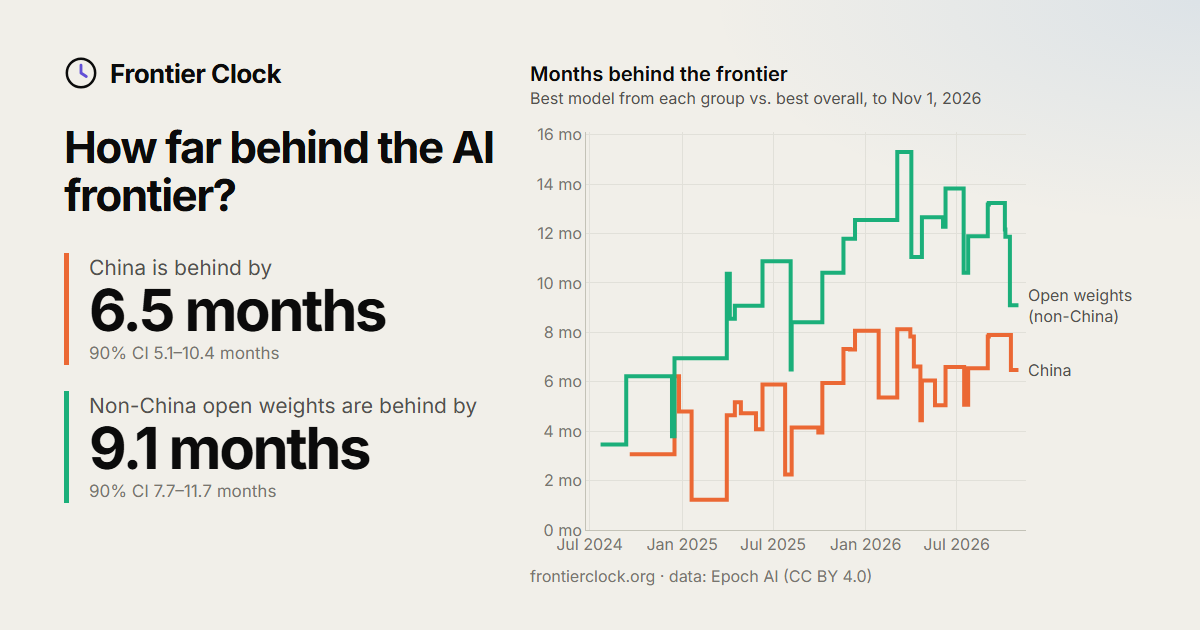
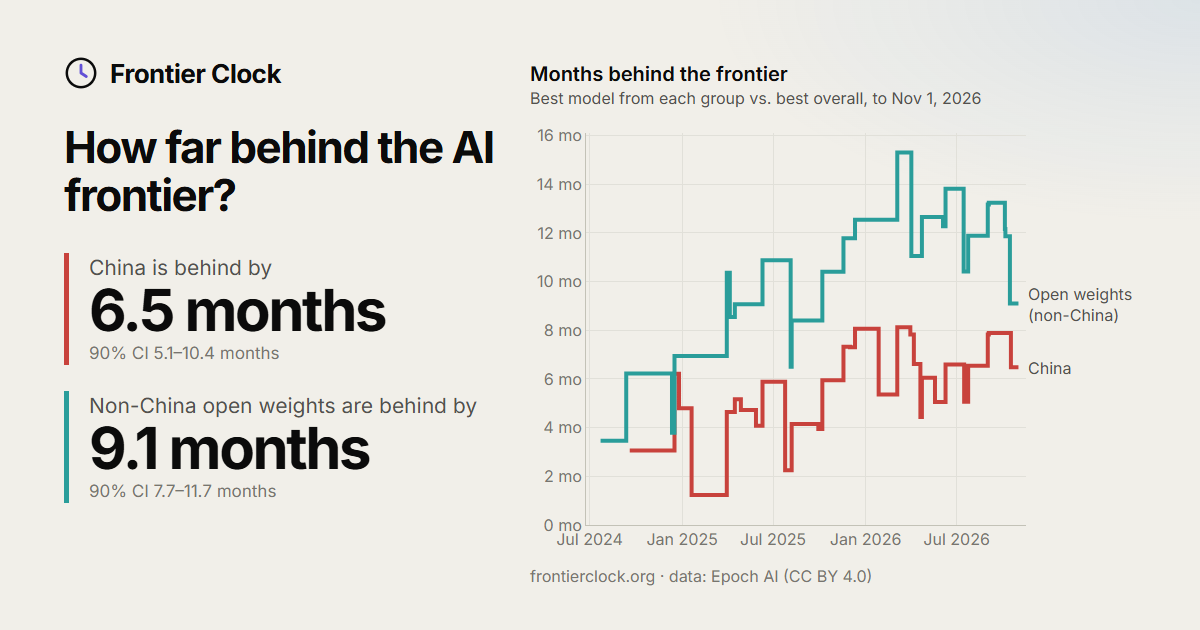
Color labs by group; red for China, teal for open weights
In the "By lab" view each lab is now a shade of its main group's color,
with line patterns and end-of-line labels to tell labs within a group
apart, so the colors mean the same thing on every tab. China changes
from orange to red and non-China open weights from green to teal. The
link-preview card is regenerated with the new colors.

diff --git a/site/app.js b/site/app.js
@@ -11,18 +11,22 @@ const GROUPS = [
 const LAG_GROUPS = GROUPS.slice(0, 3).map((g) => g.key);
 
 // Labs offered in the "By lab" view. Each keeps a fixed color, so toggling others never
-// repaints it. Eight is the categorical palette's limit; these have the most frontier-level
-// models (Z.ai and Mistral, next in line, are left out).
+// repaints it. A lab's color is a shade of the group most of its models belong to, so blue
+// still reads as US closed; within a group, labs also differ by line pattern. (Labs do cross
+// groups, e.g. OpenAI's gpt-oss; the marker shape shows each model's own group.)
+// These have the most frontier-level models (Z.ai and Mistral, next in line, are left out).
 const LABS = [
-  { key: "OpenAI", color: "--lab-1" },
-  { key: "Anthropic", color: "--lab-2" },
-  { key: "Google DeepMind", color: "--lab-3" },
-  { key: "xAI", color: "--lab-4" },
-  { key: "Meta AI", color: "--lab-5" },
-  { key: "DeepSeek", color: "--lab-6" },
-  { key: "Alibaba", color: "--lab-7" },
-  { key: "Moonshot", color: "--lab-8" },
+  { key: "OpenAI", color: "--lab-1", dash: "solid" },
+  { key: "Anthropic", color: "--lab-2", dash: "dash" },
+  { key: "Google DeepMind", color: "--lab-3", dash: "solid" },
+  { key: "xAI", color: "--lab-4", dash: "dot" },
+  { key: "Meta AI", color: "--lab-5", dash: "solid" },
+  { key: "DeepSeek", color: "--lab-6", dash: "solid" },
+  { key: "Alibaba", color: "--lab-7", dash: "dash" },
+  { key: "Moonshot", color: "--lab-8", dash: "solid" },
 ];
+// SVG equivalents of Plotly's dash names, for the legend chips.
+const DASH_SVG = { solid: "", dash: "5 3", dot: "1.5 3" };
 
 // Frontier curves offered on the site (core.js also has "linear" and "broken", kept for the CLI).
 const MODE_SHORT = { step: "Running max", interp: "Interpolated" };
@@ -500,7 +504,7 @@ function renderLegends() {
       const b = document.createElement("button");
       b.type = "button";
       b.setAttribute("aria-pressed", String(state.labsOn.has(l.key)));
-      b.innerHTML = `<svg width="16" height="8"><line x1="0" y1="4" x2="16" y2="4" stroke="${css(l.color)}" stroke-width="2" stroke-linecap="round"/></svg>`;
+      b.innerHTML = `<svg width="22" height="8"><line x1="1" y1="4" x2="21" y2="4" stroke="${css(l.color)}" stroke-width="2.5" stroke-linecap="round" stroke-dasharray="${DASH_SVG[l.dash]}"/></svg>`;
       b.append(l.key);
       b.addEventListener("click", () => {
         state.labsOn.has(l.key) ? state.labsOn.delete(l.key) : state.labsOn.add(l.key);
@@ -667,7 +671,7 @@ function renderScatter() {
   const view = state.scatterView;
   const series = view === "labs"
     ? LABS.filter((l) => state.labsOn.has(l.key))
-      .map((l) => ({ color: css(l.color), rows: leaders(rows.filter((r) => labOf(r.model) === l.key)) }))
+      .map((l) => ({ color: css(l.color), dash: l.dash, label: l.key, rows: leaders(rows.filter((r) => labOf(r.model) === l.key)) }))
     : (view === "leaders" ? GROUPS.slice(0, 3) : GROUPS).map((g) => {
       const mine = rows.filter((r) => groupMeta(r.model.group) === g);
       return { color: css(g.color), rows: view === "leaders" ? leaders(mine) : mine };
@@ -681,7 +685,7 @@ function renderScatter() {
     if (withTrend) {
       traces.push({
         x: mine.map((r) => isoOf(r.t)), y: mine.map((r) => isoOf(r.fdate)),
-        mode: "lines", line: { color, width: 2 }, opacity: 0.6, hoverinfo: "skip",
+        mode: "lines", line: { color, width: 2, dash: s.dash ?? "solid" }, opacity: view === "labs" ? 0.9 : 0.6, hoverinfo: "skip",
       });
     }
     const symbols = mine.map((r) => groupMeta(r.model.group).symbol);
@@ -705,25 +709,24 @@ function renderScatter() {
     }
     traces.push(trace);
   }
-  // Direct labels for each group's most advanced model, set in a gutter to the right of
-  // the newest release so they never sit on top of points. Nudged apart vertically.
-  // The lab view has none (its legend names the lines) but keeps the gutter, so the axes
-  // don't shift when switching views. Narrow screens have no room for them: no labels, no gutter.
+  // Direct labels for each group's most advanced model (each lab's name in the lab view), set
+  // in a gutter to the right of the newest release so they never sit on top of points.
+  // Nudged apart vertically. Narrow screens have no room for them: no labels, no gutter.
   const narrow = $("chart-scatter").clientWidth < 720;
-  const labelled = view === "labs" || narrow ? [] : series.slice(0, 3).filter((s) => s.top).sort((a, b) => b.top.fdate - a.top.fdate);
+  const labelled = narrow ? [] : (view === "labs" ? series : series.slice(0, 3)).filter((s) => s.top).sort((a, b) => b.top.fdate - a.top.fdate);
   const tMaxRel = Math.max(...rows.map((r) => r.t));
   const labelX = tMaxRel + 0.08;
   const yMax = Math.max(...rows.map((r) => r.fdate));
   const yMinT = Math.min(...rows.map((r) => r.fdate));
   const minGap = (yMax - yMinT) * 0.06;
   let prevY = Infinity;
-  const annotations = labelled.map(({ top }) => {
+  const annotations = labelled.map(({ top, label, color }) => {
     const ly = Math.min(top.fdate, prevY - minGap);
     prevY = ly;
     return {
       x: isoOf(top.t), y: isoOf(top.fdate), ax: isoOf(labelX), ay: isoOf(ly), axref: "x", ayref: "y",
-      text: escapeHtml(top.model.name), xanchor: "left", showarrow: true, arrowhead: 0, arrowwidth: 1, standoff: 6,
-      arrowcolor: css("--axis"), font: { size: 11, color: css("--text-secondary") },
+      text: label ? `<b>${escapeHtml(label)}</b>` : escapeHtml(top.model.name), xanchor: "left", showarrow: true, arrowhead: 0, arrowwidth: 1, standoff: 6,
+      arrowcolor: label ? color : css("--axis"), font: { size: 11, color: label ? color : css("--text-secondary") },
     };
   });
   const yMin = isoOf(Math.min(...rows.map((r) => r.fdate)) - 0.12);

diff --git a/site/styles.css b/site/styles.css
@@ -18,18 +18,18 @@
   --accent-wash: rgba(98, 80, 214, 0.10);
   --glow: rgba(98, 80, 214, 0.12);
   --series-1: #2a78d6;
-  --series-2: #eb6834;
-  --series-3: #1baf7a;
+  --series-2: #c8423c;
+  --series-3: #2a9d9a;
   --series-other: #898781;
-  /* Categorical order for the per-lab view (validated on the adjacent pairlist, for lines). */
-  --lab-1: #2a78d6;
-  --lab-2: #eb6834;
-  --lab-3: #1baf7a;
-  --lab-4: #eda100;
-  --lab-5: #e87ba4;
-  --lab-6: #008300;
-  --lab-7: #6250d6;
-  --lab-8: #e34948;
+  /* Per-lab view: shades of the lab's group color (dark to light), told apart further by line pattern. */
+  --lab-1: #164d91;
+  --lab-2: #2a78d6;
+  --lab-3: #7aaeea;
+  --lab-4: #4f8fdc;
+  --lab-5: #2a9d9a;
+  --lab-6: #8f2a25;
+  --lab-7: #c8423c;
+  --lab-8: #e58a84;
   --frontier: #0b0b0b;
   --shadow: 0 1px 2px rgba(11, 11, 11, 0.04), 0 8px 24px rgba(11, 11, 11, 0.06);
 }

diff --git a/site/og-card.html b/site/og-card.html
@@ -9,7 +9,7 @@
   <script src="https://cdnjs.cloudflare.com/ajax/libs/plotly.js/2.35.0/plotly-basic.min.js"></script>
   <style>
     :root { --page: #f1efe9; --text: #0b0b0b; --muted: #52514e; --faint: #77756f; --grid: #e1e0d9; --axis: #c3c2b7;
-      --accent: #6250d6; --china: #eb6834; --open: #1baf7a; }
+      --accent: #6250d6; --china: #c8423c; --open: #2a9d9a; }
     * { box-sizing: border-box; }
     html, body { margin: 0; }
     body { width: 1200px; height: 630px; overflow: hidden; background: var(--page); color: var(--text);
